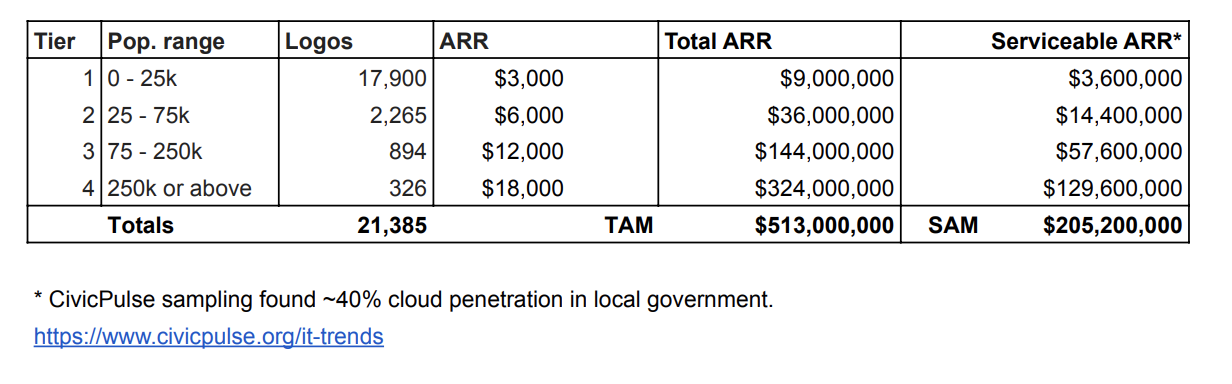
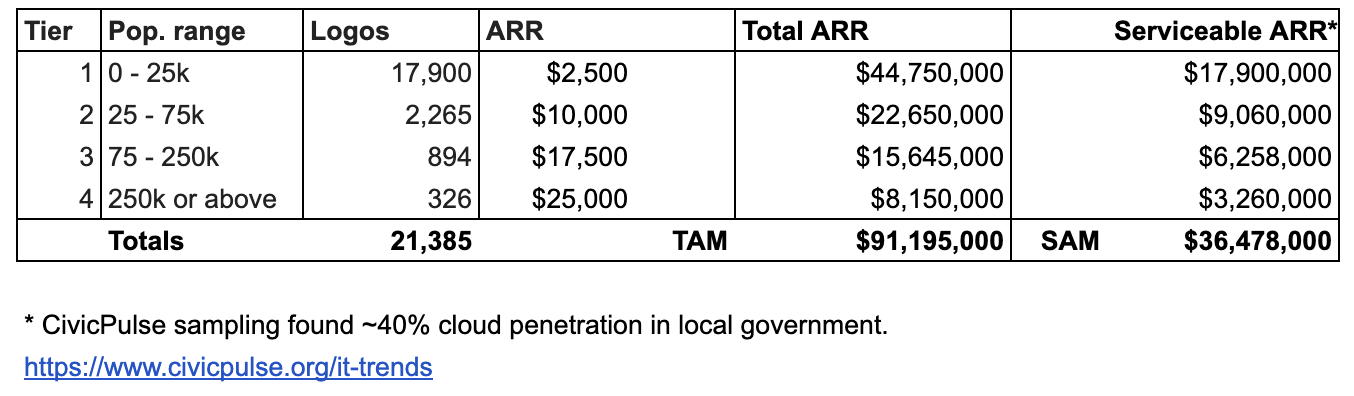
edited market sizing lesson

Changed region(s): [[0.0, 0.0, 1.0, 0.6875], [0.0, 0.75, 0.6477, 0.9688]]

diff --git a/_lessons/8-market-sizing.md b/_lessons/8-market-sizing.md
@@ -25,19 +25,21 @@ So one should generate a market size using a bottom-up approach, recognizing the
 
 <img src="{{ site.url}}/img/market-size.png">
 
-We can use a basic population based-breakdown, and in general, cities have a threshold of around $20-25k. Let's use conservative numbers starting at $18k and working down. We can then easily rough out a TAM of about $513M (per annum). 
+We can use a basic population based-breakdown, and in general, cities have a threshold of around $20-25k. Let's use conservative numbers starting at $18k and working down. We can then easily rough out a TAM of about $91M (per annum). 
 
 To generate servicable market -- SAM -- we can the findings from the report I recently commissioned on GovTech with a leading — and only really — polling firm for local government leaders, where we found about 40% cloud / SaaS adoption. 
 
-That is to say, given any city, we have a 40% chance they use some SaaS product. This becomes a handy limiter to apply to the total market. 
-
-SAM is approximated at $205M in this example. 
+That is to say, given any city, we have a 40% chance they use some SaaS product. This becomes a handy limiter to apply to the total market. SAM is approximated at ~$36.5M in this example. 
 
 ## City Analysis
 
 Tier 1 cities are very numerous, but so numerous that a hunter strategy would be inefficient; thus, that would be a self-service approach, which has had some but limited success in GovTech. (tl;dr: Traditional web-based marketing approaches, e.g. SEO, don’t apply to this highly-regulated “new” industry. For example, no government employee is likely searching for “department efficiency software”...) 
 
 I have found that tiers 2 & 3 are both accessible and reasonably similar to other SMBs: there aren’t dozens of loops to jump through, just usually a POC and a contractor officer (sometimes a committee meeting). 
+
+Using rough percetanges for adoption and the previously calculated SAM in each semgment, we can make revenue projections:
+
+<img src="{{ site.url}}/img/revenue-projections.png">
 
 If you're interested in learning more, get in touch: <a href="https://twitter.com/@abhinemani" target="_blank">@abhinemani</a>
 
